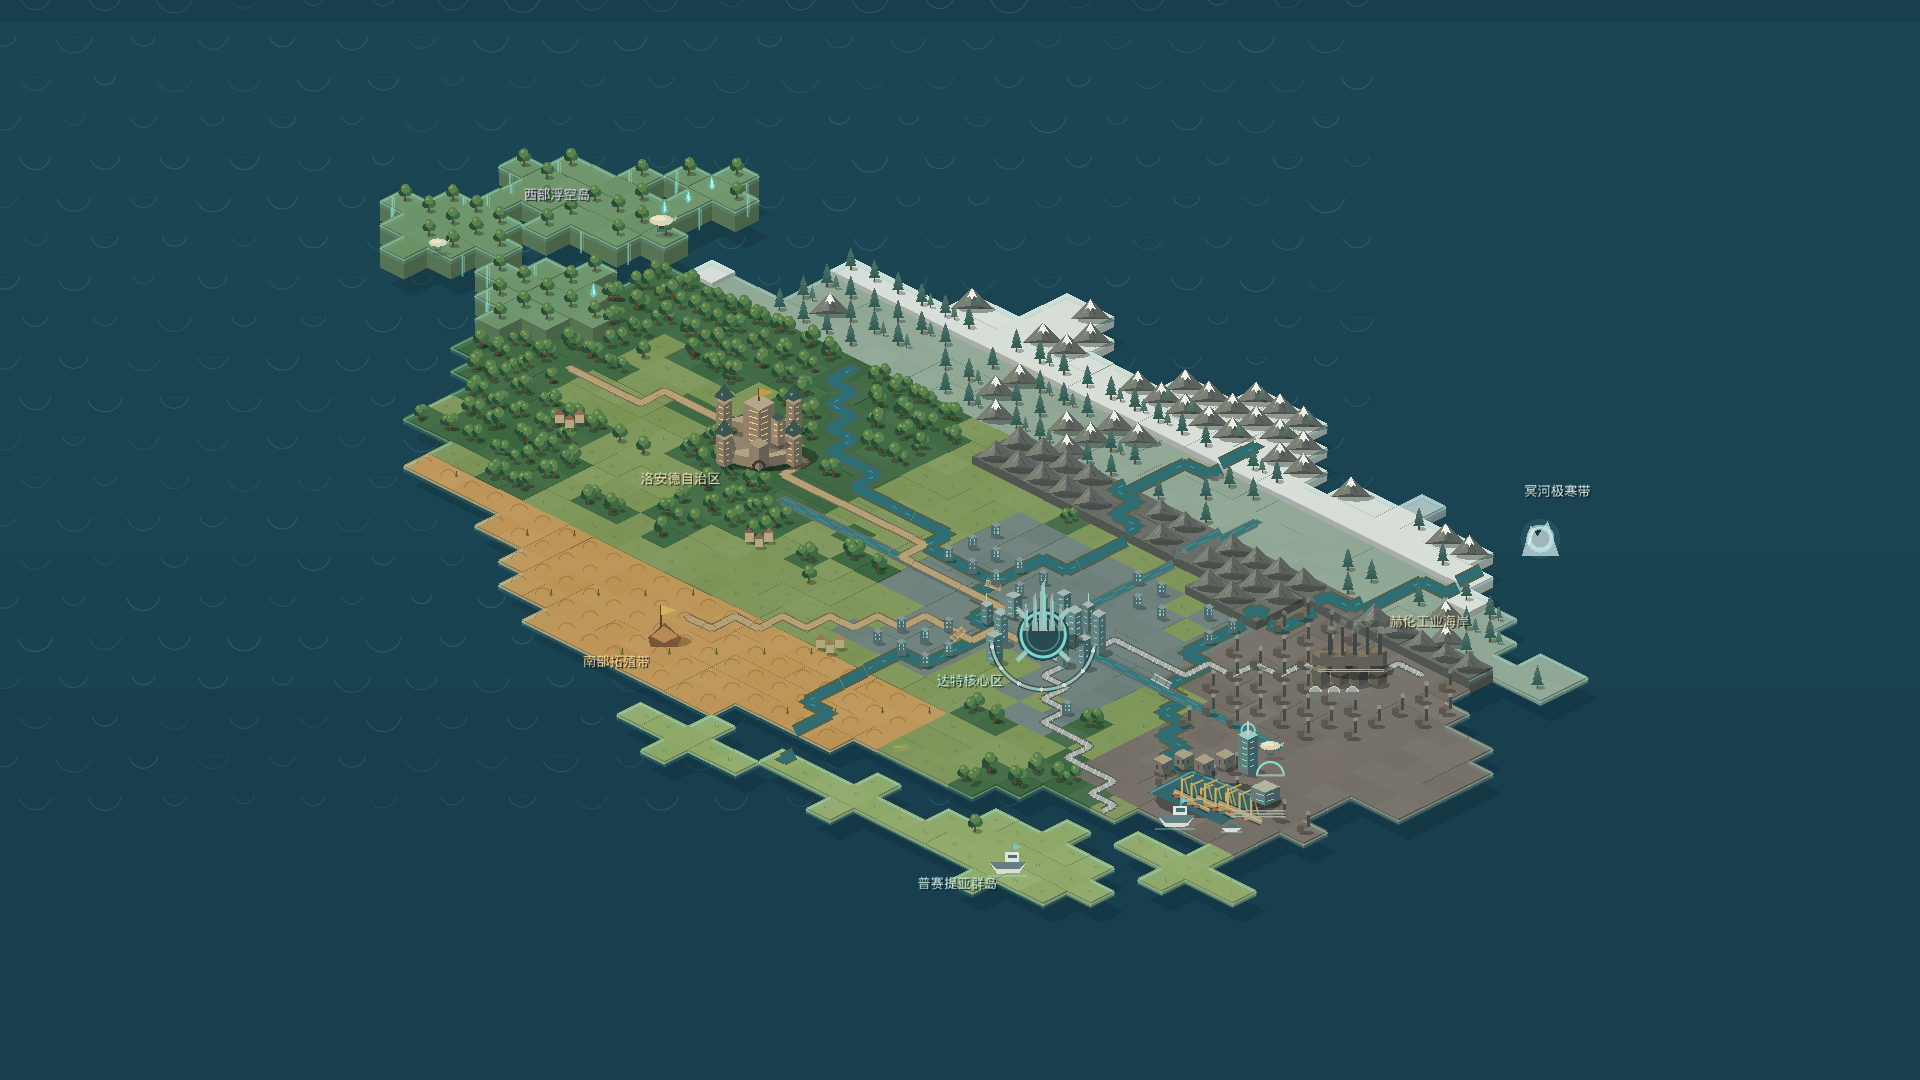
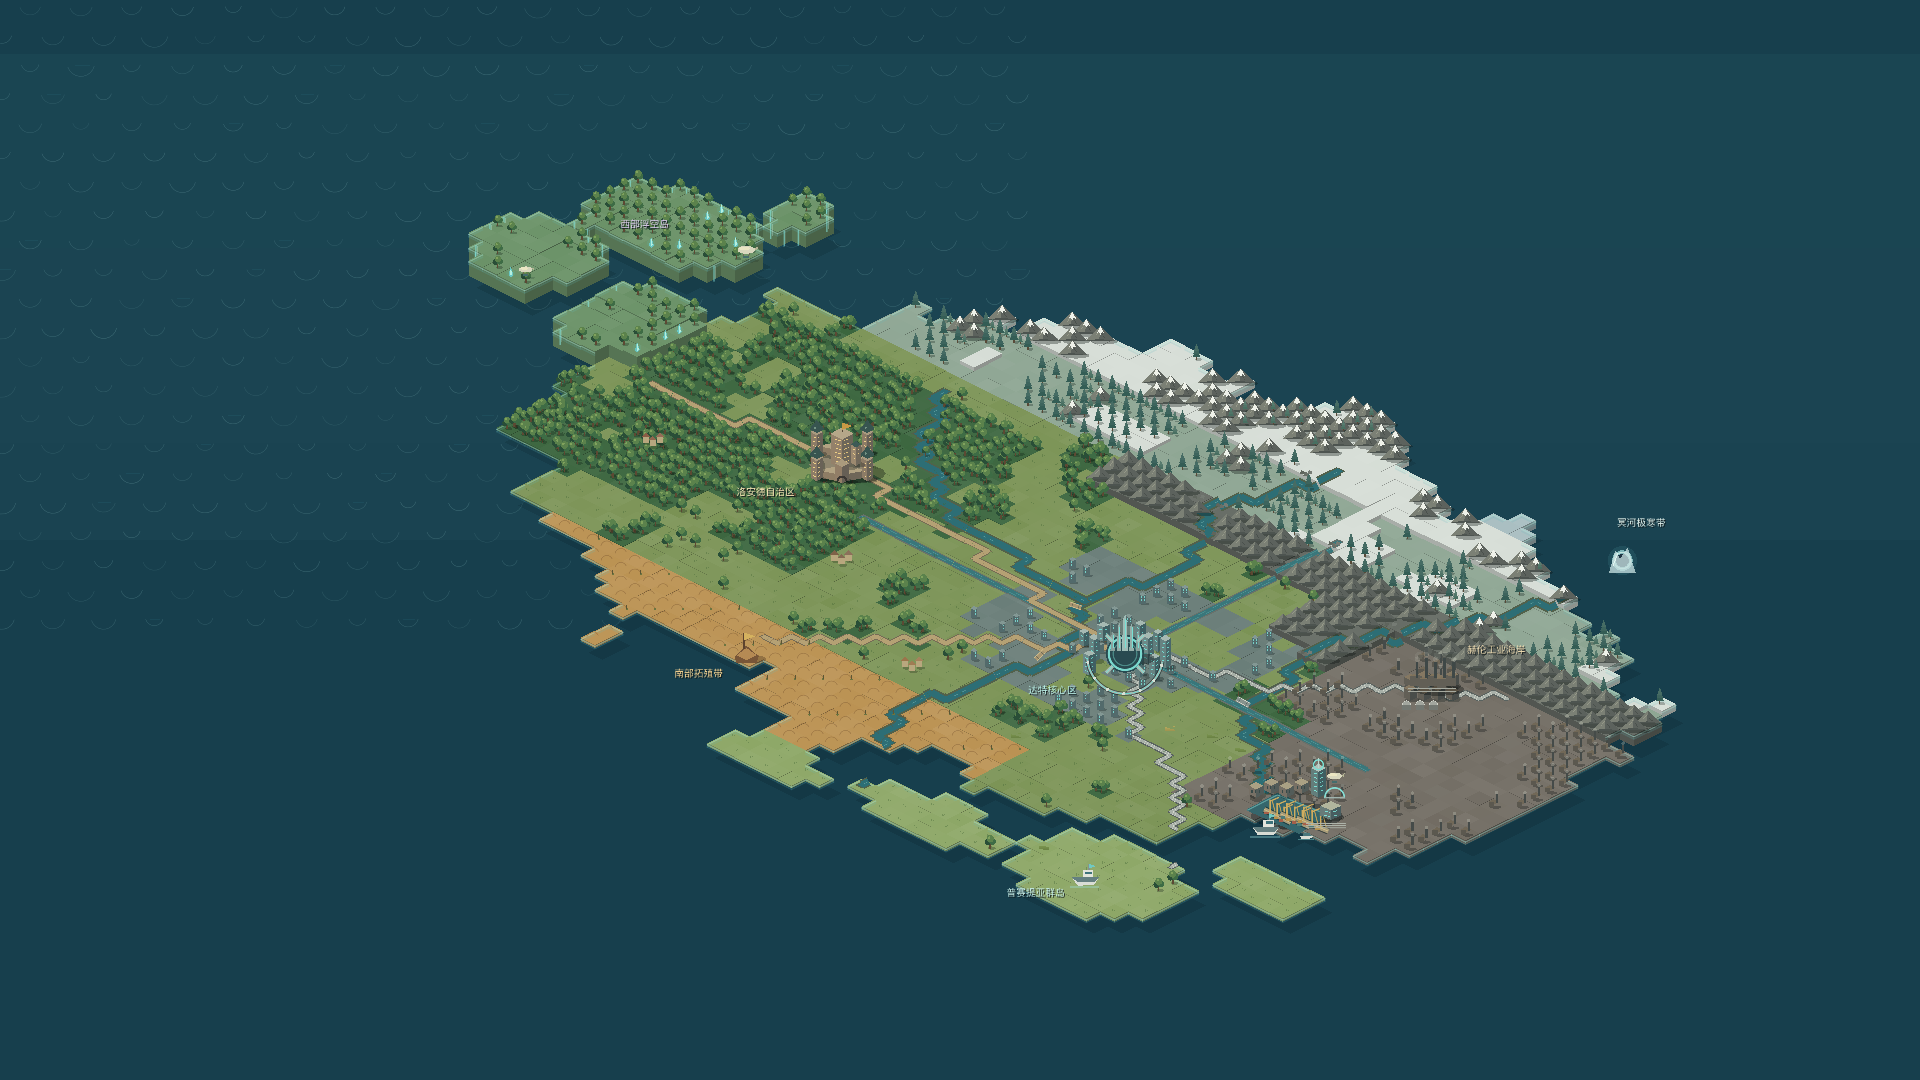
Expand campaign world grid capacity

Changed region(s): [[0.1875, 0.1222, 0.875, 0.8556], [0.8438, 0.4583, 0.875, 0.4889]]

diff --git a/docs/ring_world_map.md b/docs/ring_world_map.md
@@ -5,7 +5,10 @@ The active campaign map is a lightweight 2D isometric tile map implemented in
 
 ## Structure
 
-- A deterministic 48 by 30 visual grid defines the continent and biomes.
+- An 80 by 50 runtime grid provides 4,000 addressable world cells. A separate
+  48 by 30 design coordinate system preserves the authored geography while
+  adding roughly 2.8 times as many cells for future levels and landmarks. The
+  current continent mask contains 2,291 land and island cells.
 - Layered value noise controls coastline shape, terrain tint and elevation, so
   the map remains reproducible without looking like a flat board.
 - Coast tiles add shallow-water foam and cliff shading; floating islands add
@@ -13,9 +16,9 @@ The active campaign map is a lightweight 2D isometric tile map implemented in
 - The northern Nether River, Heren industrial coast, Loand woodland, Datt
   transport hub, southern frontier and archipelago, and western floating
   islands are authored as distinct regions.
-- Rivers and roads use smoothed paths. Datt's crossing canals, future rail,
-  regional landmarks, forests, fields, mountains, ships and airships are drawn
-  directly by Godot and require no external 3D assets.
+- Datt's crossing canals, future rail, regional landmarks, forests, fields,
+  mountains, ships and airships are drawn directly by Godot and require no
+  external 3D assets.
 - The active map viewport renders at 1920 by 1080 with 2x MSAA. Terrain,
   buildings and infrastructure are vector-drawn CanvasItem geometry rather
   than a single low-resolution background image.
@@ -26,10 +29,11 @@ The active campaign map is a lightweight 2D isometric tile map implemented in
   vegetation, then buildings. Infrastructure tiles sample terrain elevation,
   roads reserve clear verges, and crossings use separate bridge decks instead
   of drawing one line over another.
-- The terrain now uses 64 by 32 world tiles instead of 44 by 22 tiles, expanding
-  the navigable world footprint by roughly 45 percent in each projected axis.
-  The default camera is a regional view; zoom out for the continent overview or
-  drag the camera to inspect each country at model scale.
+- Runtime tiles are 52 by 26 units. Combined with the 80 by 50 grid, this makes
+  the projected continent about 35 percent wider and taller than the previous
+  48 by 30 version while increasing placement density. The default camera is a
+  regional view; zoom out for the continent overview or drag the camera to
+  inspect each country at model scale.
 - Roads, railways, rivers and canals are assembled from projected tile modules.
   Every entrance, exit, turn, shoulder and surface texture shares the same 2:1
   axes as the ground diamond, so infrastructure cannot drift into screen-space
@@ -45,11 +49,11 @@ The active campaign map is a lightweight 2D isometric tile map implemented in
 
 ## Controls
 
-- Mouse wheel: zoom from the full-continent view into landmark detail.
+- Mouse wheel: zoom between the continent overview and landmark detail.
 - Middle or right mouse drag: pan.
 - Single-click or hover a marker: show its level details.
 - Double-click a marker: enter the level.
-- The Reset View button restores the full-continent view.
+- The Reset View button restores the regional development view.
 
 ## Editing
 
